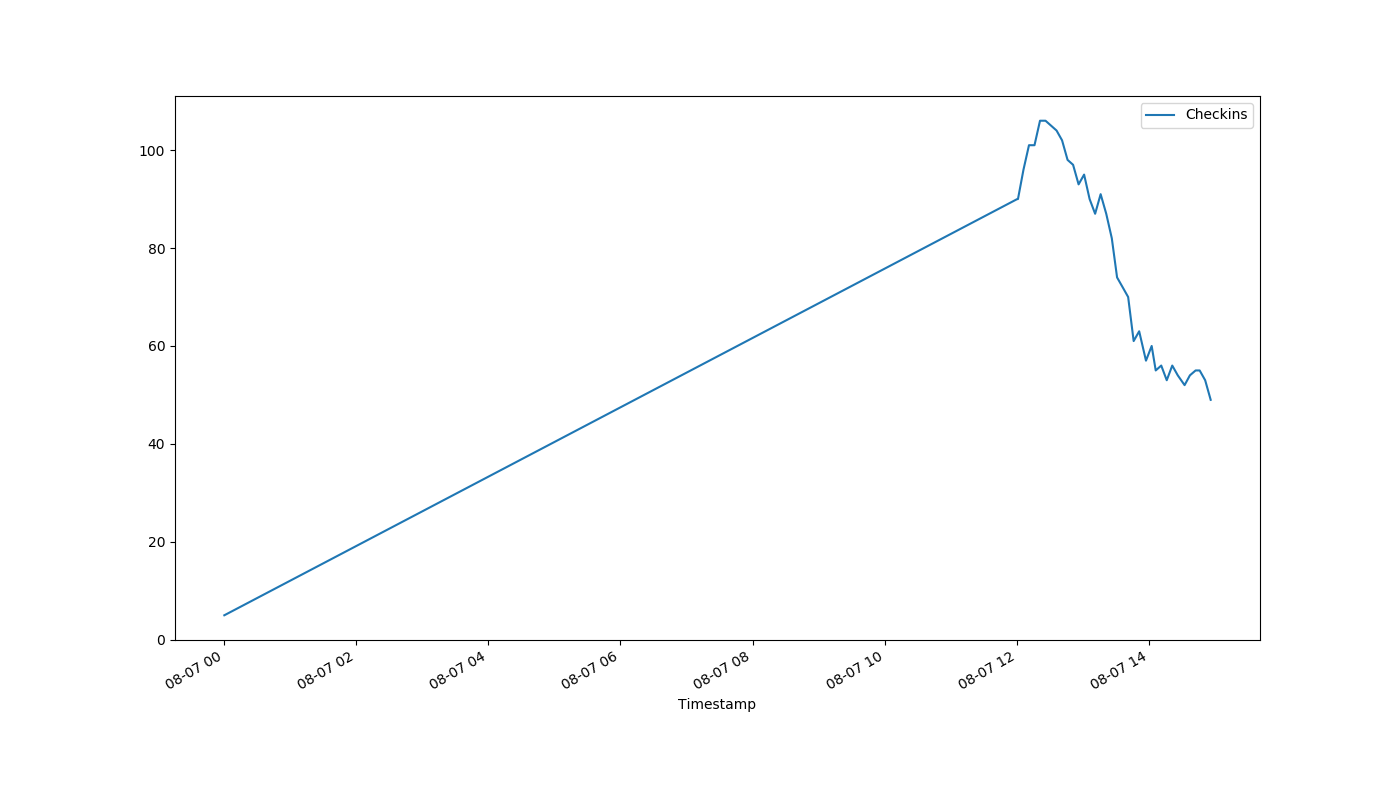
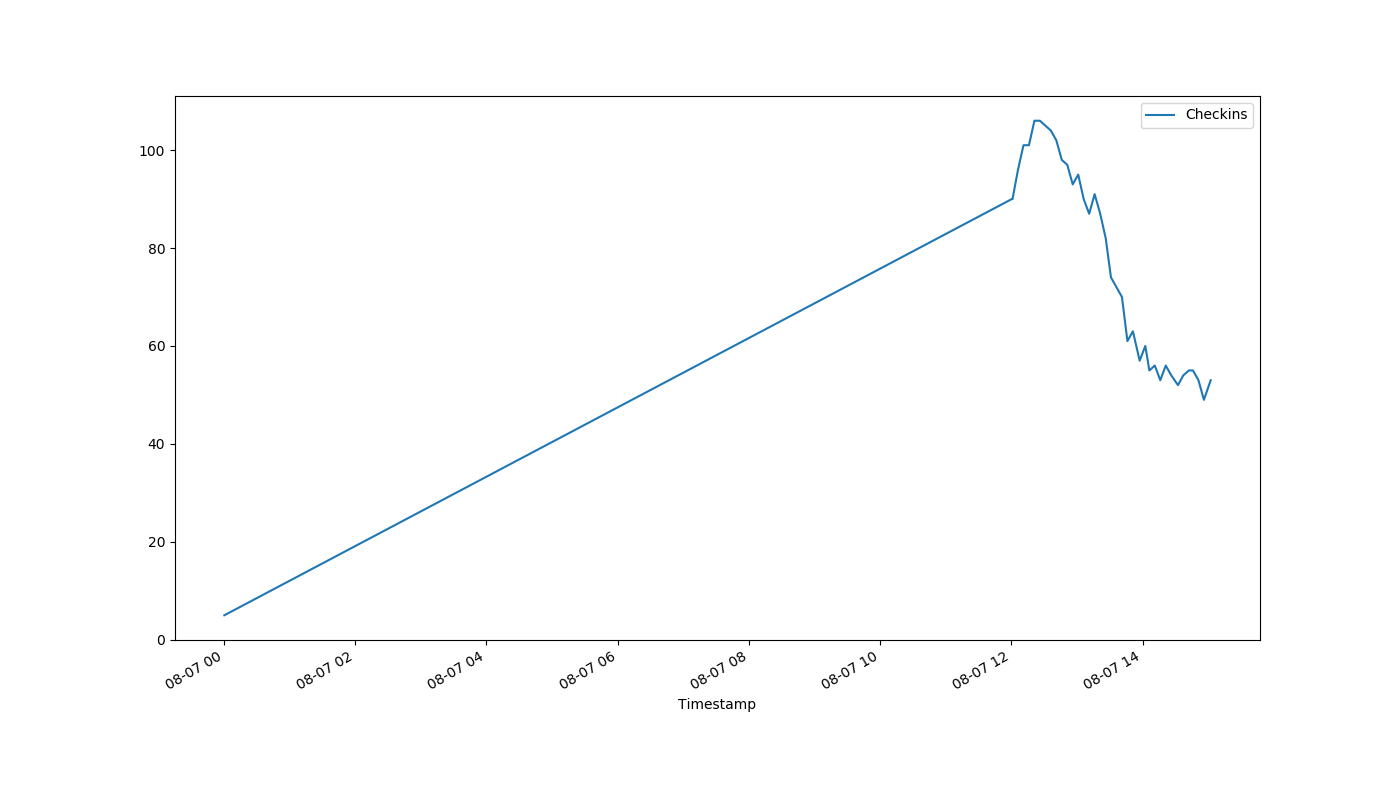
auto-Aug-07-15:03:42

diff --git a/index.html b/index.html
@@ -1,1 +1,1 @@
-<!DOCTYPE html><html><head><meta http-equiv="refresh" content="30"><link rel='stylesheet' href='holmcurrent.css'></head><body><p id='count'>49</p><div id='graph-wrap'><img id='graph' src='holmgraph-Aug-07.png'></div><p id='updated'>Last updated 14:56:16 / 14:56:02</p></body></html>
+<!DOCTYPE html><html><head><meta http-equiv="refresh" content="30"><link rel='stylesheet' href='holmcurrent.css'></head><body><p id='count'>53</p><div id='graph-wrap'><img id='graph' src='holmgraph-Aug-07.png'></div><p id='updated'>Last updated 15:02:16 / 15:02:13</p></body></html>
